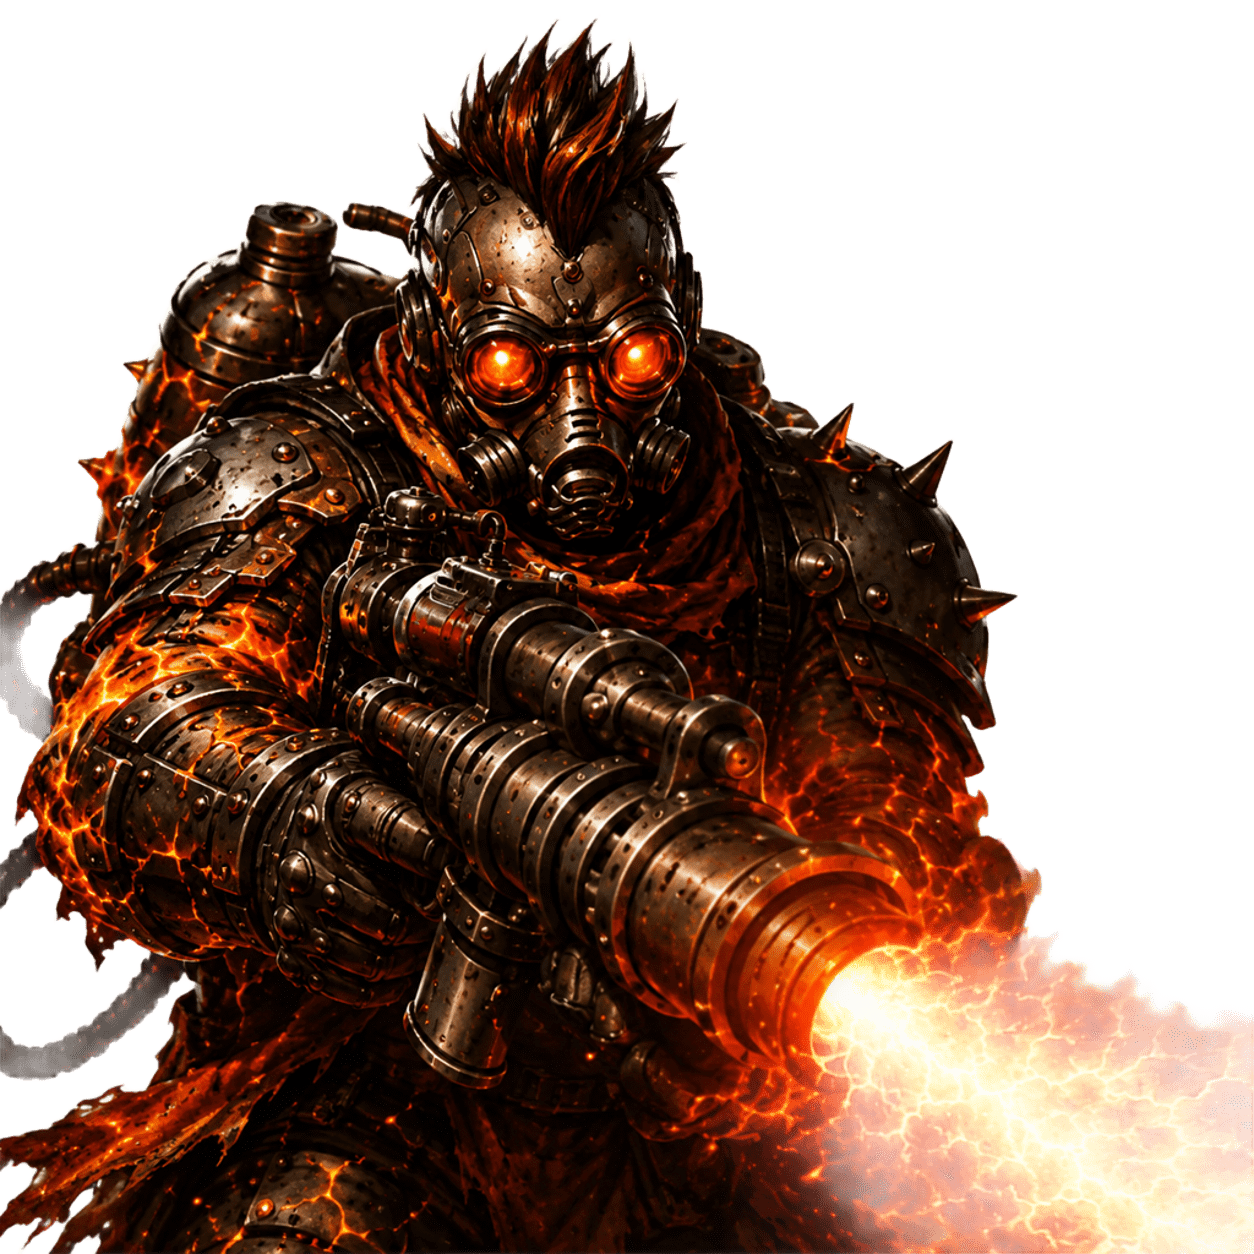
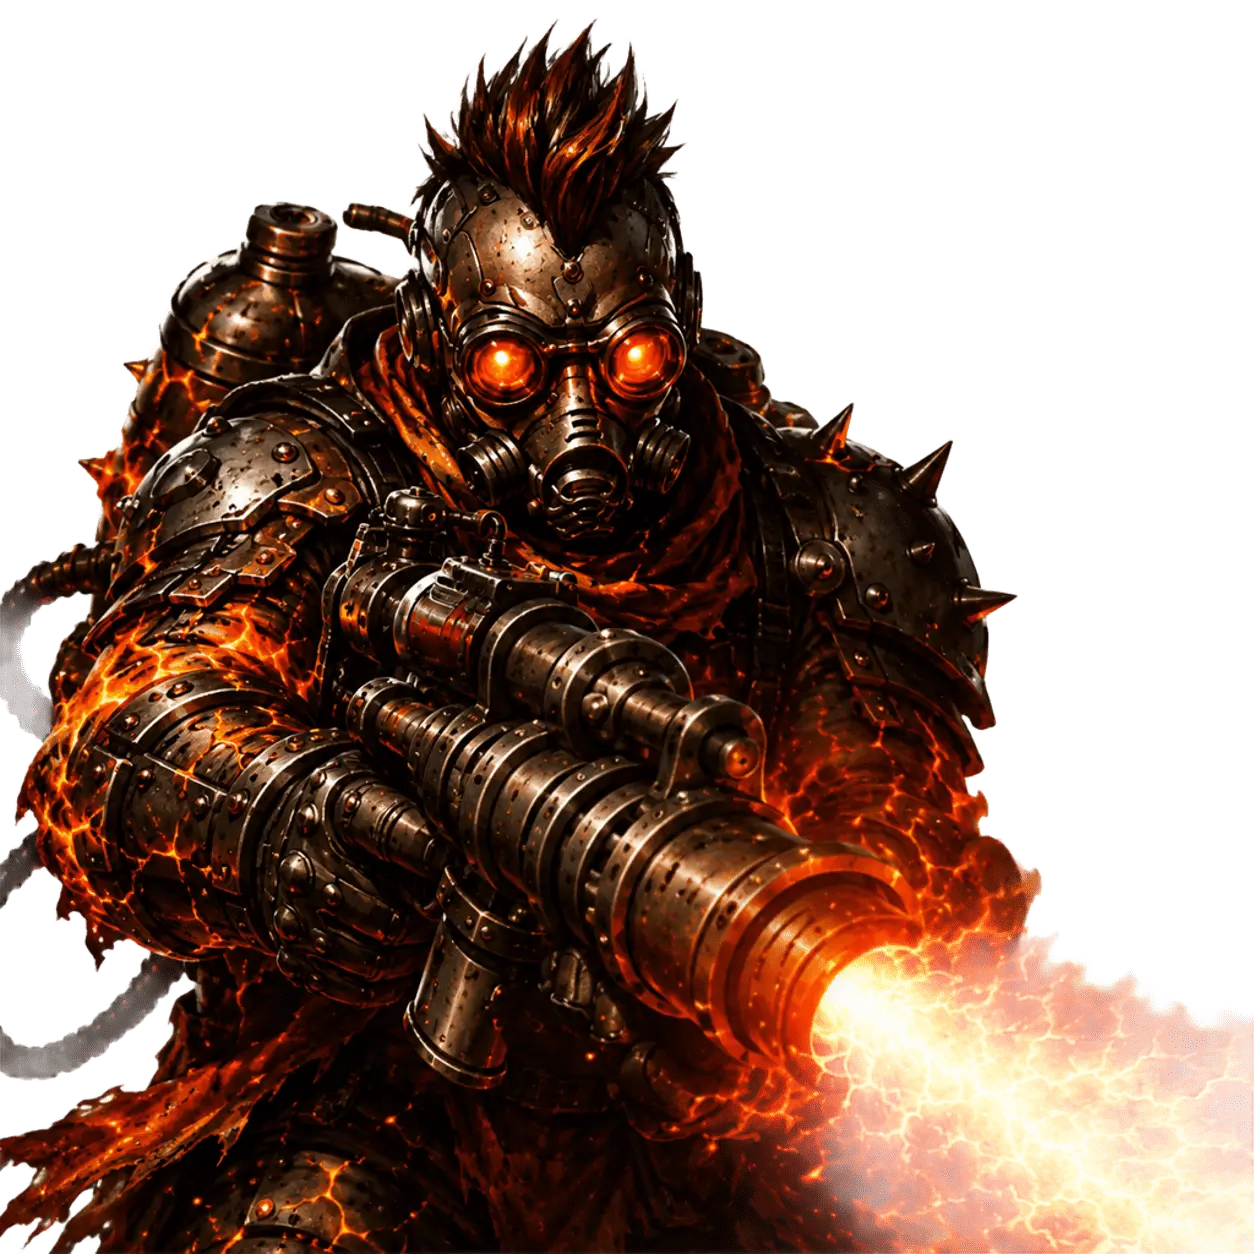
compress imagens

Changed region(s): [[0.0933, 0.4976, 0.1866, 0.5598]]

diff --git a/es/index.html b/es/index.html
@@ -30,7 +30,7 @@
     <div class="wrap nav">
       <a class="brand" href="/es">
         <span class="brand-mark" aria-hidden="true">
-          <img src="/assets/ic_launcher-playstore.png" alt="Last Bunker logo">
+          <img src="/assets/ic_launcher-playstore.webp" alt="Last Bunker logo">
         </span>
         <span>Last Bunker</span>
       </a>

diff --git a/privacy/es/index.html b/privacy/es/index.html
@@ -26,7 +26,7 @@
     <div class="wrap nav">
       <a class="brand" href="/es">
         <span class="brand-mark" aria-hidden="true">
-          <img src="/assets/ic_launcher-playstore.png" alt="Last Bunker logo">
+          <img src="/assets/ic_launcher-playstore.webp" alt="Last Bunker logo">
         </span>
         <span>Last Bunker</span>
       </a>

diff --git a/privacy/index.html b/privacy/index.html
@@ -26,7 +26,7 @@
     <div class="wrap nav">
       <a class="brand" href="/pt">
         <span class="brand-mark" aria-hidden="true">
-          <img src="/assets/ic_launcher-playstore.png" alt="Last Bunker logo">
+          <img src="/assets/ic_launcher-playstore.webp" alt="Last Bunker logo">
         </span>
         <span>Last Bunker</span>
       </a>

diff --git a/pt/index.html b/pt/index.html
@@ -30,7 +30,7 @@
     <div class="wrap nav">
       <a class="brand" href="/pt">
         <span class="brand-mark" aria-hidden="true">
-          <img src="/assets/ic_launcher-playstore.png" alt="Last Bunker logo">
+          <img src="/assets/ic_launcher-playstore.webp" alt="Last Bunker logo">
         </span>
         <span>Last Bunker</span>
       </a>

diff --git a/index.html b/index.html
@@ -30,7 +30,7 @@
     <div class="wrap nav">
       <a class="brand" href="/">
         <span class="brand-mark" aria-hidden="true">
-          <img src="/assets/ic_launcher-playstore.png" alt="Last Bunker logo">
+          <img src="/assets/ic_launcher-playstore.webp" alt="Last Bunker logo">
         </span>
         <span>Last Bunker</span>
       </a>

diff --git a/privacy/en/index.html b/privacy/en/index.html
@@ -26,7 +26,7 @@
     <div class="wrap nav">
       <a class="brand" href="/">
         <span class="brand-mark" aria-hidden="true">
-          <img src="/assets/ic_launcher-playstore.png" alt="Last Bunker logo">
+          <img src="/assets/ic_launcher-playstore.webp" alt="Last Bunker logo">
         </span>
         <span>Last Bunker</span>
       </a>
